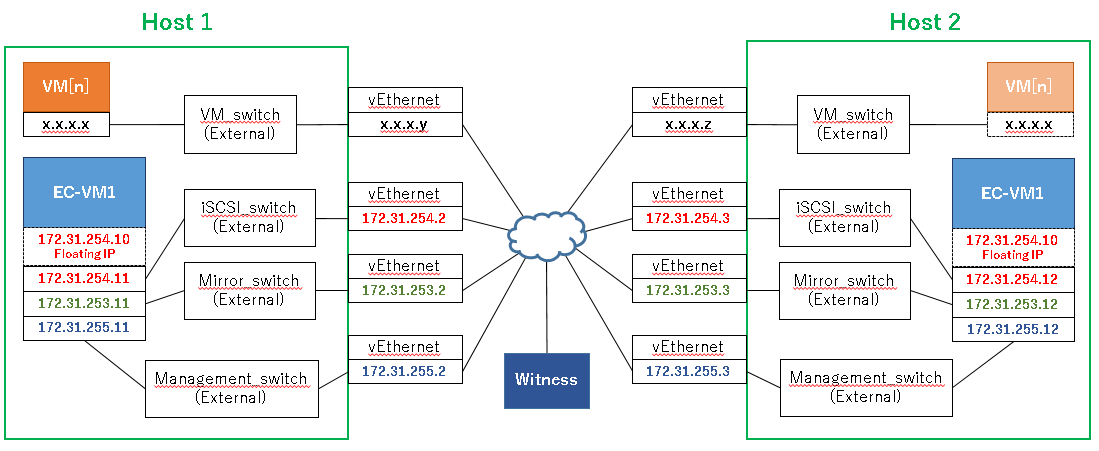
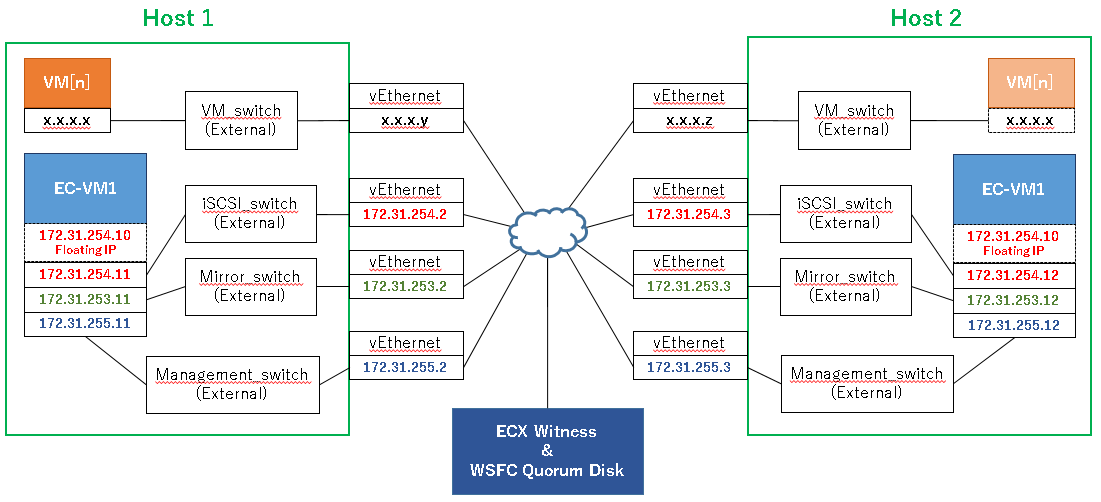
Replace a network image, and add some explanations.

diff --git a/LiveMigration/LiveMigrationSLwithWSFC.md b/LiveMigration/LiveMigrationSLwithWSFC.md
@@ -15,6 +15,7 @@ Configuring VM Live Migration in Hyper-V host cluster with WSFC.
 ## Network
 
 - Separating network for VM / management of VM and cluster / mirroring / iSCSI / Live Migration.
+- One server is needed outside a WSFC cluster, for ECX witness and WSFC quorum disk. Ideally this server should also be clustered, but currently this document describes a configuration with two WSFC servers and one quorum disk.
 
 	![Network](Network-WSFC.PNG)
 
@@ -98,6 +99,9 @@ Once OS installation finished, do as follows.
 1. Create a ECX cluster
 
 At this point, required ECX resources are
+- Witness heartbeat
+- LAN heartbeat
+- HTTP NP
 - Floating IP address
 	- Should belong to the network connecting to iSCSI_switch
 - Mirror disk
